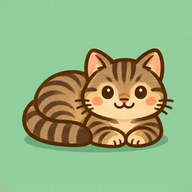
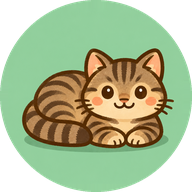
Add files via upload

diff --git a/index.html b/index.html
@@ -3,9 +3,9 @@
 <meta name="viewport" content="width=device-width, initial-scale=1, viewport-fit=cover">
 <title>Weekmenu</title>
 <meta name="theme-color" content="#ffffff">
-<link rel="manifest" href="manifest.webmanifest?v=6">
-<link rel="icon" href="icon-192.png?v=6" type="image/png">
-<link rel="apple-touch-icon" href="icon-180.png?v=6">
+<link rel="manifest" href="manifest.webmanifest?v=7">
+<link rel="icon" href="icon-192.png?v=7" type="image/png">
+<link rel="apple-touch-icon" href="icon-180.png?v=7">
 <meta name="apple-mobile-web-app-capable" content="yes">
 <meta name="apple-mobile-web-app-title" content="Weekmenu">
 <script src="config.js"></script>
